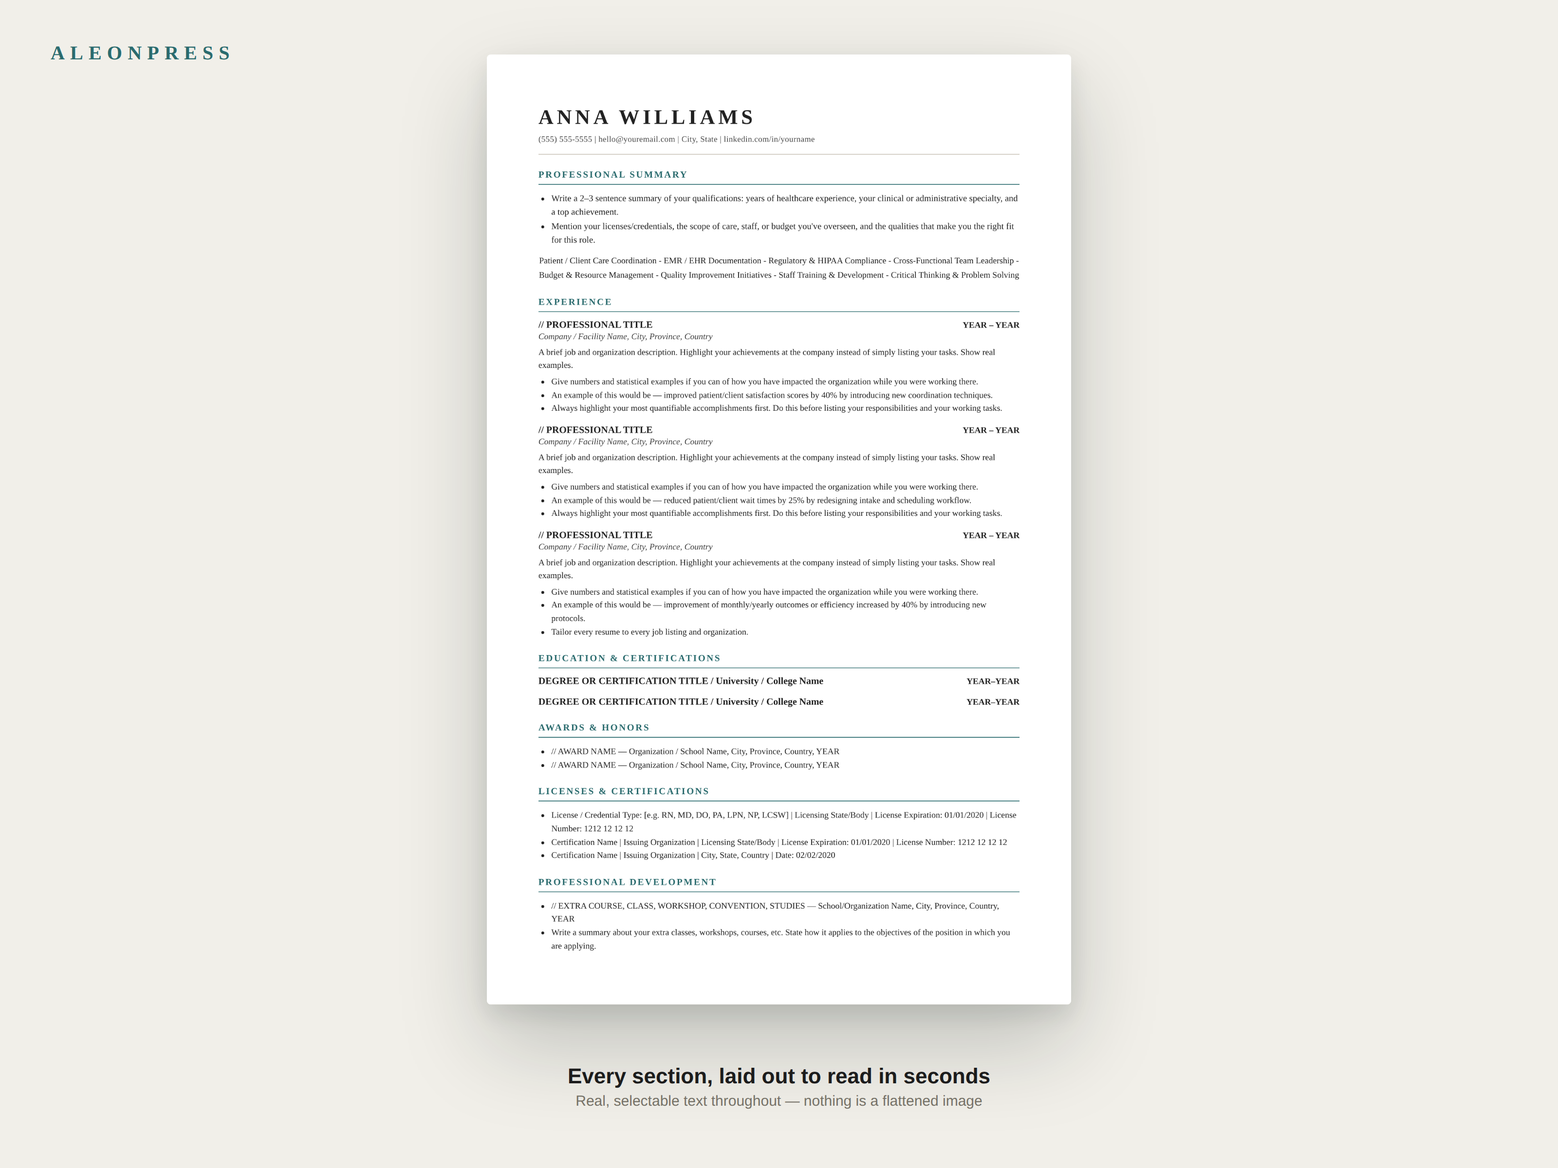
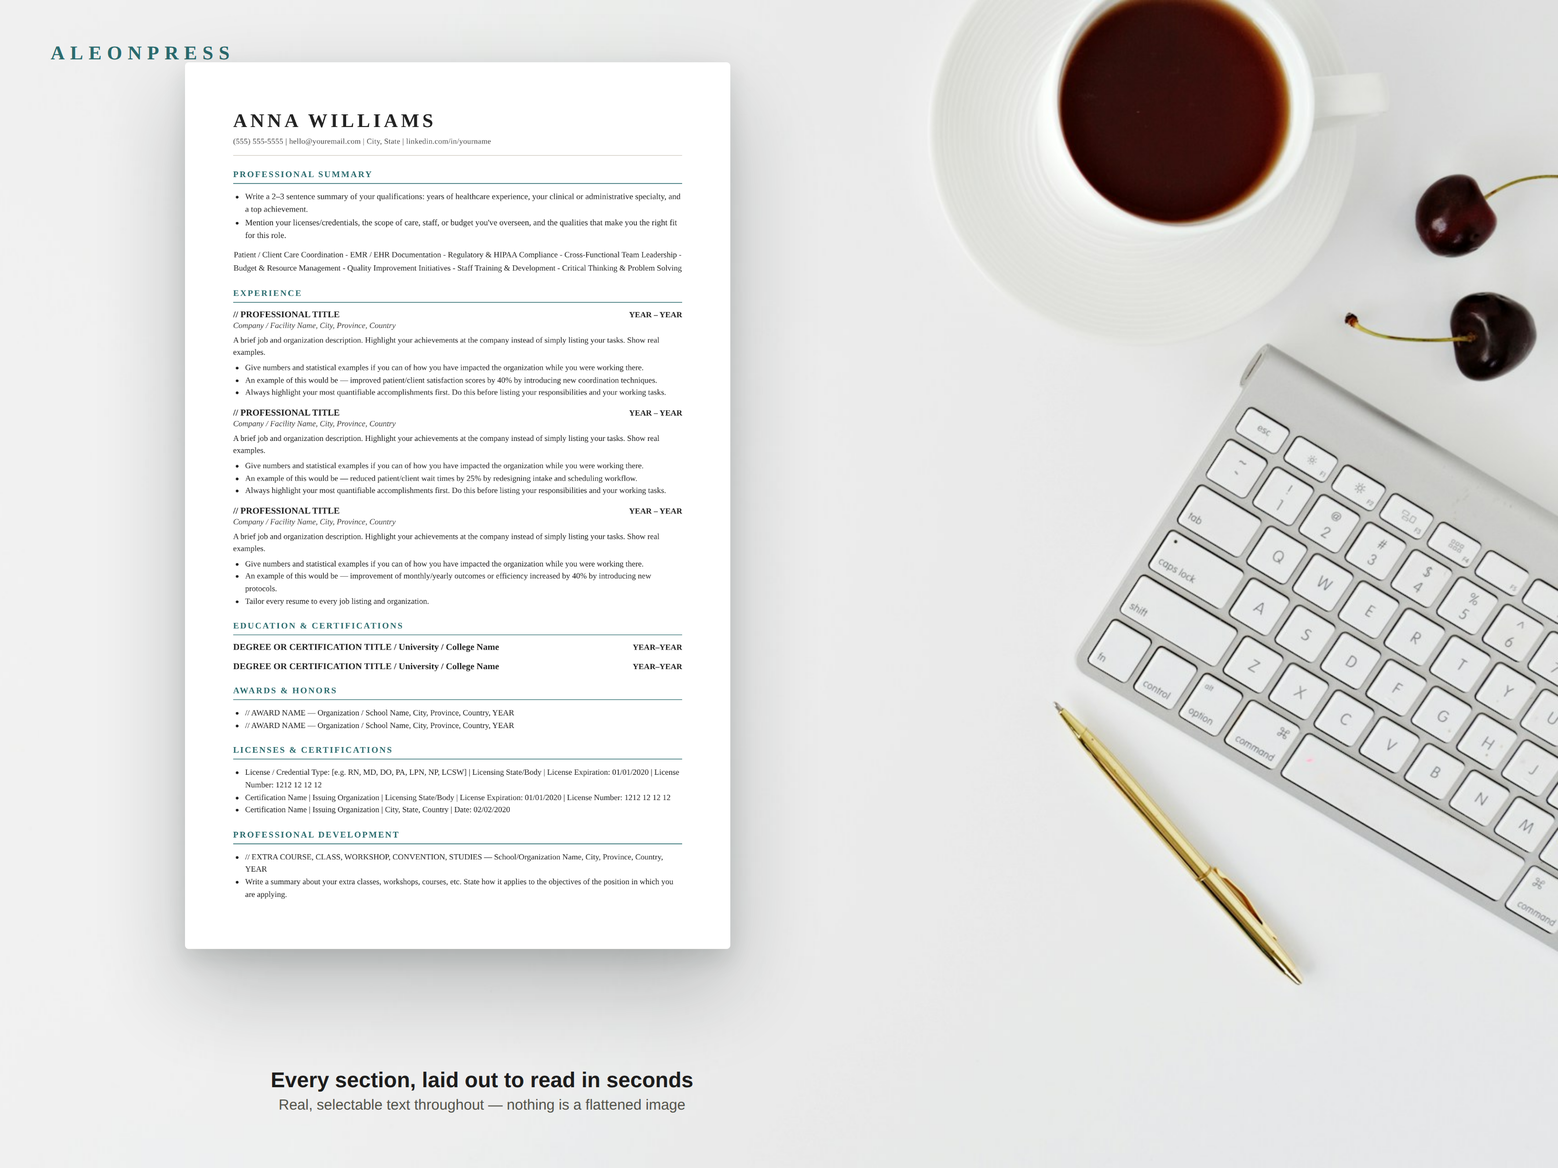
Use real desk photo as listing photo background; add clean PNG exports
Replaces the flat/gradient mockup backgrounds with the actual desk flat-lay
photo across all 9 listing photos, repositioning content into the clear
desk area so it doesn't collide with the coffee cup, cherries, keyboard,
and pen. Also adds 05-PNG-Images/: clean, background-free PNG renders of
every resume/cover letter/references version (2 designs x 2 page sizes)
for building custom mockups separately.

Claude-Session: https://claude.ai/code/session_01KUSWci8Hn8Q2GaSdZK2iun

Changed region(s): [[0.0938, 0.0, 1.0, 0.9688], [0.1562, 0.1562, 0.2188, 0.2812], [0.625, 0.3438, 0.6562, 0.375]]

diff --git a/product/build/composites/04-whats-included.html b/product/build/composites/04-whats-included.html
@@ -1,32 +1,37 @@
 <!DOCTYPE html><html><head><meta charset="utf-8"><link rel="stylesheet" href="base.css">
 <style>
-  body{ background:#2A6B6E; color:#fff; }
-  .canvas{ padding:0; }
-  .corner{ position:absolute; bottom:-160px; left:-160px; width:520px; height:520px; border-radius:50%; background:#255f61; opacity:0.6; }
-  .corner2{ position:absolute; top:-140px; right:-140px; width:420px; height:420px; border-radius:50%; background:#357477; opacity:0.5; }
-  .content{ position:absolute; z-index:2; left:130px; right:130px; top:50%; transform:translateY(-42%); }
-  .kicker{ font-size:16px; letter-spacing:0.24em; text-transform:uppercase; color:#BFE3E0; font-weight:700; margin-bottom:20px; }
-  h1.headline{ font-size:58px; margin:0 0 64px; color:#fff !important; }
-  .grid{ display:grid; grid-template-columns:1fr 1fr; gap:34px 60px; }
-  .item{ display:flex; align-items:flex-start; font-size:23px; line-height:1.4; }
-  .item .mark{ color:#BFE3E0; font-weight:800; margin-right:16px; font-size:24px; }
-  .brandmark{ color:#fff; opacity:0.85; }
+  .panel{
+    position:absolute; left:70px; top:300px; width:850px; height:600px; border-radius:20px;
+    background:#2A6B6E; color:#fff; overflow:hidden;
+    box-shadow:0 40px 90px rgba(20,30,28,0.28);
+  }
+  .corner{ position:absolute; bottom:-160px; left:-160px; width:420px; height:420px; border-radius:50%; background:#255f61; opacity:0.6; }
+  .corner2{ position:absolute; top:-140px; right:-140px; width:340px; height:340px; border-radius:50%; background:#357477; opacity:0.5; }
+  .content{ position:relative; z-index:2; padding:80px 64px; }
+  .kicker{ font-size:15px; letter-spacing:0.22em; text-transform:uppercase; color:#BFE3E0; font-weight:700; margin-bottom:18px; }
+  h1.headline{ font-size:42px; margin:0 0 54px; color:#fff !important; line-height:1.15; }
+  .grid{ display:grid; grid-template-columns:1fr 1fr; gap:30px 40px; }
+  .item{ display:flex; align-items:flex-start; font-size:18px; line-height:1.4; }
+  .item .mark{ color:#BFE3E0; font-weight:800; margin-right:14px; font-size:19px; }
+  .brandmark{ z-index:3; }
 </style></head>
 <body><div class="canvas">
-  <div class="corner"></div><div class="corner2"></div>
   <div class="brandmark">AleonPress</div>
-  <div class="content">
-    <div class="kicker">What You'll Receive</div>
-    <h1 class="headline">Everything In One Download</h1>
-    <div class="grid">
-      <div class="item"><span class="mark">✓</span>Resume Template (2 Design Styles)</div>
-      <div class="item"><span class="mark">✓</span>Matching Cover Letter</div>
-      <div class="item"><span class="mark">✓</span>Matching References Page</div>
-      <div class="item"><span class="mark">✓</span>US Letter &amp; A4 Sizes</div>
-      <div class="item"><span class="mark">✓</span>Editable Word (.doc) &amp; Print-Ready PDF</div>
-      <div class="item"><span class="mark">✓</span>Step-by-Step Instructions</div>
-      <div class="item"><span class="mark">✓</span>4 Free Bonus Career Guides</div>
-      <div class="item"><span class="mark">✓</span>Job Application Tracker (Excel)</div>
+  <div class="panel">
+    <div class="corner"></div><div class="corner2"></div>
+    <div class="content">
+      <div class="kicker">What You'll Receive</div>
+      <h1 class="headline">Everything In One Download</h1>
+      <div class="grid">
+        <div class="item"><span class="mark">✓</span>Resume Template (2 Design Styles)</div>
+        <div class="item"><span class="mark">✓</span>Matching Cover Letter</div>
+        <div class="item"><span class="mark">✓</span>Matching References Page</div>
+        <div class="item"><span class="mark">✓</span>US Letter &amp; A4 Sizes</div>
+        <div class="item"><span class="mark">✓</span>Editable Word &amp; Print-Ready PDF</div>
+        <div class="item"><span class="mark">✓</span>Step-by-Step Instructions</div>
+        <div class="item"><span class="mark">✓</span>4 Free Bonus Career Guides</div>
+        <div class="item"><span class="mark">✓</span>Job Application Tracker (Excel)</div>
+      </div>
     </div>
   </div>
 </div></body></html>

diff --git a/product/build/composites/01-hero.html b/product/build/composites/01-hero.html
@@ -1,23 +1,22 @@
 <!DOCTYPE html><html><head><meta charset="utf-8"><link rel="stylesheet" href="base.css">
 <style>
-  body{ background: radial-gradient(circle at 78% 15%, #E3EEEE 0%, #FAF9F5 45%); }
-  .stack{ position:absolute; right:120px; top:90px; width:620px; height:1010px; }
+  .stack{ position:absolute; left:270px; top:470px; width:460px; }
   .stack .paper{ position:absolute; inset:0; background:#fff; border-radius:6px; }
   .stack .p3{ transform:rotate(3.5deg) translateY(10px); box-shadow:0 20px 40px rgba(20,30,28,0.10); }
   .stack .p2{ transform:rotate(-2.5deg) translateY(4px); box-shadow:0 20px 40px rgba(20,30,28,0.10); }
-  .stack img{ position:relative; width:100%; border-radius:6px; box-shadow:0 40px 90px rgba(20,30,28,0.22), 0 10px 24px rgba(20,30,28,0.10); transform:rotate(-1deg); }
-  .copy{ position:absolute; left:90px; top:300px; width:560px; }
-  .kicker{ font-size:15px; letter-spacing:0.22em; text-transform:uppercase; color:#2A6B6E; font-weight:700; margin-bottom:22px; }
-  .copy h1{ font-size:64px; line-height:1.08; margin:0 0 22px; }
-  .copy .desc{ font-size:19px; color:#54544c; line-height:1.55; margin-bottom:30px; }
+  .stack img{ position:relative; width:100%; display:block; border-radius:6px; box-shadow:0 40px 90px rgba(20,30,28,0.25), 0 10px 24px rgba(20,30,28,0.12); transform:rotate(-1deg); }
+  .copy{ position:absolute; left:70px; top:66px; width:820px; }
+  .kicker{ font-size:15px; letter-spacing:0.22em; text-transform:uppercase; color:#2A6B6E; font-weight:700; margin-bottom:18px; }
+  .copy h1{ font-size:52px; line-height:1.1; margin:0 0 18px; max-width:640px; }
+  .copy .desc{ font-size:17px; color:#54544c; line-height:1.55; margin-bottom:22px; max-width:560px; }
   .badges{ display:flex; flex-wrap:wrap; gap:10px; }
-  .badge{ background:#fff; border:1px solid #dedad0; border-radius:20px; padding:9px 18px; font-size:14px; font-weight:600; color:#2A6B6E; }
+  .badge{ background:#fff; border:1px solid #dedad0; border-radius:20px; padding:9px 18px; font-size:14px; font-weight:600; color:#2A6B6E; box-shadow:0 4px 14px rgba(20,30,28,0.06); }
 </style></head>
 <body><div class="canvas">
   <div class="brandmark">AleonPress</div>
   <div class="copy">
     <div class="kicker">Healthcare &amp; Medical Resume Template</div>
-    <h1 class="headline">Land the Role You're<br>Qualified For</h1>
+    <h1 class="headline">Land the Role You're Qualified For</h1>
     <div class="desc">A clean, modern resume template for nurses, physicians, therapists, medical staff, and healthcare executives — built to pass ATS scans and impress hiring managers.</div>
     <div class="badges">
       <div class="badge">ATS-Friendly</div>

diff --git a/product/build/composites/08-bonus-guides.html b/product/build/composites/08-bonus-guides.html
@@ -1,19 +1,18 @@
 <!DOCTYPE html><html><head><meta charset="utf-8"><link rel="stylesheet" href="base.css">
 <style>
-  body{ background:#FAF9F5; }
-  .heading{ position:absolute; top:300px; left:90px; width:520px; }
-  .kicker{ font-size:14px; letter-spacing:0.2em; text-transform:uppercase; color:#2A6B6E; font-weight:700; margin-bottom:16px; }
-  .heading h1{ font-size:42px; margin:0 0 20px; line-height:1.15; }
-  .list{ margin-top:10px; }
-  .list .row{ display:flex; align-items:flex-start; margin-bottom:14px; font-size:17px; color:#333; }
-  .list .row .mark{ color:#2A6B6E; font-weight:800; margin-right:12px; }
-  .tracker-note{ margin-top:26px; background:#fff; border-left:3px solid #2A6B6E; border-radius:4px; padding:16px 20px; font-size:14.5px; color:#4a4a4a; }
-  .fan{ position:absolute; right:60px; top:50%; transform:translateY(-50%); width:760px; height:900px; }
-  .fan img{ position:absolute; width:480px; box-shadow:0 30px 60px rgba(20,30,28,0.20); border-radius:5px; }
-  .fan img:nth-child(1){ left:0px; top:130px; transform:rotate(-9deg); }
-  .fan img:nth-child(2){ left:100px; top:35px; transform:rotate(-3deg); }
-  .fan img:nth-child(3){ left:200px; top:0px; transform:rotate(3deg); }
-  .fan img:nth-child(4){ left:298px; top:75px; transform:rotate(9deg); }
+  .heading{ position:absolute; top:100px; left:70px; width:850px; }
+  .kicker{ font-size:14px; letter-spacing:0.2em; text-transform:uppercase; color:#2A6B6E; font-weight:700; margin-bottom:14px; }
+  .heading h1{ font-size:36px; margin:0 0 20px; line-height:1.15; }
+  .list{ display:flex; flex-wrap:wrap; gap:10px 34px; margin-top:6px; }
+  .list .row{ display:flex; align-items:center; font-size:16px; color:#333; width:380px; }
+  .list .row .mark{ color:#2A6B6E; font-weight:800; margin-right:10px; }
+  .tracker-note{ margin-top:20px; background:#fff; border-left:3px solid #2A6B6E; border-radius:4px; padding:14px 18px; font-size:13.5px; color:#4a4a4a; box-shadow:0 10px 26px rgba(20,30,28,0.08); }
+  .fan{ position:absolute; left:296px; top:520px; width:420px; height:500px; }
+  .fan img{ position:absolute; width:262px; box-shadow:0 24px 50px rgba(20,30,28,0.22); border-radius:5px; }
+  .fan img:nth-child(1){ left:0px; top:71px; transform:rotate(-9deg); }
+  .fan img:nth-child(2){ left:55px; top:19px; transform:rotate(-3deg); }
+  .fan img:nth-child(3){ left:110px; top:0px; transform:rotate(3deg); }
+  .fan img:nth-child(4){ left:163px; top:41px; transform:rotate(9deg); }
 </style></head>
 <body><div class="canvas">
   <div class="brandmark">AleonPress</div>

diff --git a/product/build/export-clean-pngs.js b/product/build/export-clean-pngs.js
@@ -1,0 +1,44 @@
+const { chromium } = require('playwright');
+const path = require('path');
+const fs = require('fs');
+const HTML_PATH = path.join(__dirname, 'resumegenerator.html');
+const DATA = JSON.parse(fs.readFileSync(path.join(__dirname, 'resume-data.json'), 'utf8'));
+
+const OUT = path.join(__dirname, '..', '05-PNG-Images');
+fs.mkdirSync(OUT, { recursive: true });
+
+// [docType, variant, pageSize, outName]
+const JOBS = [
+  ['resume', 'B', 'letter', 'Healthcare-Resume-Design1-USLetter'],
+  ['resume', 'B', 'a4', 'Healthcare-Resume-Design1-A4'],
+  ['resume', 'A', 'letter', 'Healthcare-Resume-Design2-USLetter'],
+  ['resume', 'A', 'a4', 'Healthcare-Resume-Design2-A4'],
+  ['cover', 'B', 'letter', 'Healthcare-CoverLetter-Design1-USLetter'],
+  ['cover', 'B', 'a4', 'Healthcare-CoverLetter-Design1-A4'],
+  ['cover', 'A', 'letter', 'Healthcare-CoverLetter-Design2-USLetter'],
+  ['cover', 'A', 'a4', 'Healthcare-CoverLetter-Design2-A4'],
+  ['references', 'B', 'letter', 'Healthcare-References-Design1-USLetter'],
+  ['references', 'B', 'a4', 'Healthcare-References-Design1-A4'],
+  ['references', 'A', 'letter', 'Healthcare-References-Design2-USLetter'],
+  ['references', 'A', 'a4', 'Healthcare-References-Design2-A4'],
+];
+
+(async () => {
+  const browser = await chromium.launch();
+  const page = await browser.newPage({ viewport: { width: 1400, height: 1700 }, deviceScaleFactor: 2 });
+
+  for (const [docType, variant, pageSize, outName] of JOBS) {
+    await page.goto('file://' + HTML_PATH);
+    await page.evaluate(({ d, docType, variant, pageSize }) => {
+      state.data = d.data; state.coverData = d.coverData; state.referencesData = d.referencesData;
+      state.parsed = true; enterWorkspace();
+      setCategory('healthcare'); setVariant(variant); setPageSize(pageSize); setDocType(docType);
+    }, { d: DATA, docType, variant, pageSize });
+    await page.addStyleTag({ content: '.export-bar{ display:none !important; }' });
+    await page.waitForTimeout(200);
+    await page.locator('#previewPage').screenshot({ path: path.join(OUT, outName + '.png') });
+    console.log('Saved', outName + '.png');
+  }
+
+  await browser.close();
+})();

diff --git a/product/build/composites/07-format-compatibility.html b/product/build/composites/07-format-compatibility.html
@@ -1,13 +1,12 @@
 <!DOCTYPE html><html><head><meta charset="utf-8"><link rel="stylesheet" href="base.css">
 <style>
-  body{ background:#FAF9F5; }
-  .heading{ position:absolute; top:50%; left:0; right:0; transform:translateY(-260px); text-align:center; }
-  .heading .kicker{ font-size:16px; letter-spacing:0.2em; text-transform:uppercase; color:#2A6B6E; font-weight:700; margin-bottom:16px; }
-  .heading h1{ font-size:56px; margin:0; }
-  .grid{ position:absolute; top:50%; left:0; right:0; transform:translateY(-30px); display:flex; justify-content:center; gap:26px; padding:0 90px; }
-  .pill{ background:#fff; border:1.5px solid #E3EEEE; border-radius:14px; box-shadow:0 16px 36px rgba(20,30,28,0.08); width:232px; padding:38px 16px; text-align:center; }
-  .pill .glyph{ width:64px; height:64px; border-radius:50%; background:#E3EEEE; color:#2A6B6E; display:flex; align-items:center; justify-content:center; font-family:'EB Garamond',serif; font-weight:700; font-size:24px; margin:0 auto 20px; }
-  .pill .name{ font-size:18px; font-weight:700; color:#1c1c1c; }
+  .heading{ position:absolute; top:390px; left:70px; width:850px; text-align:left; }
+  .heading .kicker{ font-size:15px; letter-spacing:0.2em; text-transform:uppercase; color:#2A6B6E; font-weight:700; margin-bottom:16px; }
+  .heading h1{ font-size:46px; margin:0; }
+  .grid{ position:absolute; top:600px; left:70px; width:850px; display:flex; justify-content:space-between; gap:16px; }
+  .pill{ background:#fff; border:1.5px solid #E3EEEE; border-radius:14px; box-shadow:0 16px 36px rgba(20,30,28,0.1); width:150px; padding:26px 10px; text-align:center; }
+  .pill .glyph{ width:52px; height:52px; border-radius:50%; background:#E3EEEE; color:#2A6B6E; display:flex; align-items:center; justify-content:center; font-family:'EB Garamond',serif; font-weight:700; font-size:20px; margin:0 auto 16px; }
+  .pill .name{ font-size:14.5px; font-weight:700; color:#1c1c1c; }
 </style></head>
 <body><div class="canvas">
   <div class="brandmark">AleonPress</div>

diff --git a/product/build/composites/06-ats-callout.html b/product/build/composites/06-ats-callout.html
@@ -1,15 +1,13 @@
 <!DOCTYPE html><html><head><meta charset="utf-8"><link rel="stylesheet" href="base.css">
 <style>
-  body{ background:#FAF9F5; }
-  .content{ position:absolute; top:50%; left:0; right:0; transform:translateY(-50%); text-align:center; padding:0 140px; }
-  .badge{ display:inline-flex; align-items:center; gap:10px; background:#E3EEEE; color:#2A6B6E; border-radius:30px; padding:14px 30px; font-weight:700; font-size:18px; margin-bottom:38px; }
-  .badge .checkmark{ font-size:18px; font-weight:800; }
-  h1{ font-size:64px; margin:0 0 26px; }
-  .desc{ font-size:23px; color:#54544c; margin-bottom:64px; }
-  .rows{ display:flex; justify-content:center; gap:36px; }
-  .row{ background:#fff; border-radius:12px; box-shadow:0 20px 45px rgba(20,30,28,0.10); padding:32px 34px; width:380px; text-align:left; display:flex; align-items:flex-start; gap:16px; }
-  .row .mark{ color:#2A6B6E; font-size:24px; font-weight:800; }
-  .row .t{ font-size:18.5px; font-weight:600; color:#1c1c1c; line-height:1.4; }
+  .content{ position:absolute; top:50%; left:70px; width:850px; transform:translateY(-50%); text-align:left; }
+  .badge{ display:inline-flex; align-items:center; gap:10px; background:#E3EEEE; color:#2A6B6E; border-radius:30px; padding:12px 26px; font-weight:700; font-size:16px; margin-bottom:30px; }
+  h1{ font-size:48px; margin:0 0 20px; line-height:1.1; }
+  .desc{ font-size:19px; color:#54544c; margin-bottom:44px; }
+  .rows{ display:flex; flex-direction:column; gap:18px; }
+  .row{ background:#fff; border-radius:12px; box-shadow:0 20px 45px rgba(20,30,28,0.12); padding:22px 28px; text-align:left; display:flex; align-items:center; gap:16px; }
+  .row .mark{ color:#2A6B6E; font-size:22px; font-weight:800; }
+  .row .t{ font-size:17px; font-weight:600; color:#1c1c1c; line-height:1.4; }
 </style></head>
 <body><div class="canvas">
   <div class="brandmark">AleonPress</div>

diff --git a/product/build/composites/09-two-designs.html b/product/build/composites/09-two-designs.html
@@ -1,15 +1,14 @@
 <!DOCTYPE html><html><head><meta charset="utf-8"><link rel="stylesheet" href="base.css">
 <style>
-  body{ background:#F1EFE9; }
-  .heading{ position:absolute; top:70px; left:0; right:0; text-align:center; }
+  .heading{ position:absolute; top:104px; left:70px; width:850px; }
   .kicker{ font-size:14px; letter-spacing:0.2em; text-transform:uppercase; color:#2A6B6E; font-weight:700; margin-bottom:14px; }
-  .heading h1{ font-size:38px; margin:0; }
-  .row{ position:absolute; top:210px; left:0; right:0; display:flex; justify-content:center; gap:70px; }
-  .card{ width:470px; }
-  .card img{ width:100%; box-shadow:0 30px 70px rgba(20,30,28,0.18), 0 8px 20px rgba(20,30,28,0.08); border-radius:4px; }
-  .card .label{ text-align:center; margin-top:22px; }
-  .card .label .n{ font-size:13px; letter-spacing:0.12em; text-transform:uppercase; color:#2A6B6E; font-weight:700; }
-  .card .label .t{ font-size:19px; font-weight:700; color:#1c1c1c; margin-top:4px; }
+  .heading h1{ font-size:32px; margin:0; }
+  .row{ position:absolute; top:250px; left:95px; display:flex; gap:34px; }
+  .card{ width:378px; }
+  .card img{ width:100%; display:block; box-shadow:0 30px 70px rgba(20,30,28,0.2), 0 8px 20px rgba(20,30,28,0.1); border-radius:4px; }
+  .card .label{ text-align:center; margin-top:18px; }
+  .card .label .n{ font-size:12.5px; letter-spacing:0.12em; text-transform:uppercase; color:#2A6B6E; font-weight:700; }
+  .card .label .t{ font-size:16px; font-weight:700; color:#1c1c1c; margin-top:4px; }
 </style></head>
 <body><div class="canvas">
   <div class="brandmark">AleonPress</div>

diff --git a/product/build/composites/05-zoomed-details.html b/product/build/composites/05-zoomed-details.html
@@ -1,12 +1,11 @@
 <!DOCTYPE html><html><head><meta charset="utf-8"><link rel="stylesheet" href="base.css">
 <style>
-  body{ background:#FAF9F5; }
-  .wrap{ position:absolute; top:50%; left:90px; right:90px; transform:translateY(-50%); }
-  .heading{ text-align:center; margin-bottom:50px; }
+  .wrap{ position:absolute; top:50%; left:70px; width:850px; transform:translateY(-50%); }
+  .heading{ text-align:left; margin-bottom:44px; }
   .heading .kicker{ font-size:14px; letter-spacing:0.2em; text-transform:uppercase; color:#2A6B6E; font-weight:700; margin-bottom:14px; }
-  .heading h1{ font-size:40px; margin:0; }
-  .grid{ display:grid; grid-template-columns:1fr 1fr; gap:32px; }
-  .card{ background:#fff; border-radius:10px; box-shadow:0 20px 45px rgba(20,30,28,0.12); padding:30px 32px; display:flex; flex-direction:column; justify-content:center; }
+  .heading h1{ font-size:34px; margin:0; }
+  .grid{ display:grid; grid-template-columns:1fr 1fr; gap:26px; }
+  .card{ background:#fff; border-radius:10px; box-shadow:0 20px 45px rgba(20,30,28,0.14); padding:24px 26px; display:flex; flex-direction:column; justify-content:center; }
   .card img{ width:100%; display:block; }
   .card .label{ margin-top:18px; font-size:16px; font-weight:700; color:#2A6B6E; text-transform:uppercase; letter-spacing:0.06em; }
 </style></head>

diff --git a/product/build/composites/03-cover-references.html b/product/build/composites/03-cover-references.html
@@ -1,13 +1,12 @@
 <!DOCTYPE html><html><head><meta charset="utf-8"><link rel="stylesheet" href="base.css">
 <style>
-  body{ background:#FAF9F5; }
-  .heading{ position:absolute; top:80px; left:0; right:0; text-align:center; }
+  .heading{ position:absolute; top:66px; left:70px; width:850px; }
   .heading .kicker{ font-size:14px; letter-spacing:0.2em; text-transform:uppercase; color:#2A6B6E; font-weight:700; margin-bottom:14px; }
-  .heading h1{ font-size:38px; margin:0; }
-  .row{ position:absolute; top:230px; left:0; right:0; display:flex; justify-content:center; gap:60px; }
-  .card{ width:520px; }
-  .card img{ width:100%; box-shadow:0 30px 70px rgba(20,30,28,0.18), 0 8px 20px rgba(20,30,28,0.08); border-radius:4px; }
-  .card .label{ text-align:center; margin-top:22px; font-size:17px; font-weight:700; color:#1c1c1c; }
+  .heading h1{ font-size:32px; margin:0; line-height:1.2; }
+  .row{ position:absolute; top:220px; left:95px; display:flex; gap:34px; }
+  .card{ width:388px; }
+  .card img{ width:100%; display:block; box-shadow:0 30px 70px rgba(20,30,28,0.2), 0 8px 20px rgba(20,30,28,0.1); border-radius:4px; }
+  .card .label{ text-align:center; margin-top:20px; font-size:16px; font-weight:700; color:#1c1c1c; }
 </style></head>
 <body><div class="canvas">
   <div class="brandmark">AleonPress</div>

diff --git a/product/build/composites/02-resume-closeup.html b/product/build/composites/02-resume-closeup.html
@@ -1,11 +1,10 @@
 <!DOCTYPE html><html><head><meta charset="utf-8"><link rel="stylesheet" href="base.css">
 <style>
-  body{ background:#F1EFE9; }
-  .frame{ position:absolute; left:50%; top:56px; transform:translateX(-50%); width:600px; }
-  .frame img{ width:100%; display:block; box-shadow:0 40px 90px rgba(20,30,28,0.22), 0 10px 24px rgba(20,30,28,0.10); border-radius:4px; }
-  .caption{ position:absolute; bottom:60px; left:0; right:0; text-align:center; }
+  .frame{ position:absolute; left:190px; top:64px; width:560px; }
+  .frame img{ width:100%; display:block; box-shadow:0 40px 90px rgba(20,30,28,0.24), 0 10px 24px rgba(20,30,28,0.12); border-radius:4px; }
+  .caption{ position:absolute; bottom:56px; left:70px; width:850px; text-align:center; }
   .caption .title{ font-size:22px; font-weight:700; color:#1c1c1c; }
-  .caption .sub{ font-size:15px; color:#767268; margin-top:4px; }
+  .caption .sub{ font-size:15px; color:#54544c; margin-top:4px; }
 </style></head>
 <body><div class="canvas">
   <div class="brandmark">AleonPress</div>

diff --git a/product/build/composites/base.css b/product/build/composites/base.css
@@ -5,9 +5,12 @@ body{
   width:1600px; height:1200px; overflow:hidden;
   font-family:'Source Sans 3', sans-serif;
   color:#1c1c1c;
-  background:#FAF9F5;
+  background:#FAF9F5 url('../assets/desk-bg.jpeg') no-repeat center right / cover;
   position:relative;
 }
+/* Desk photo keeps its props (cup, cherries, keyboard, pen) inside roughly
+   x:950-1600 of this 1600x1200 canvas — keep content left of that line. */
+.safe-zone{ position:absolute; left:70px; width:850px; }
 .canvas{ width:1600px; height:1200px; position:relative; overflow:hidden; }
 .brandmark{
   position:absolute; top:44px; left:52px; font-family:'EB Garamond',serif;
